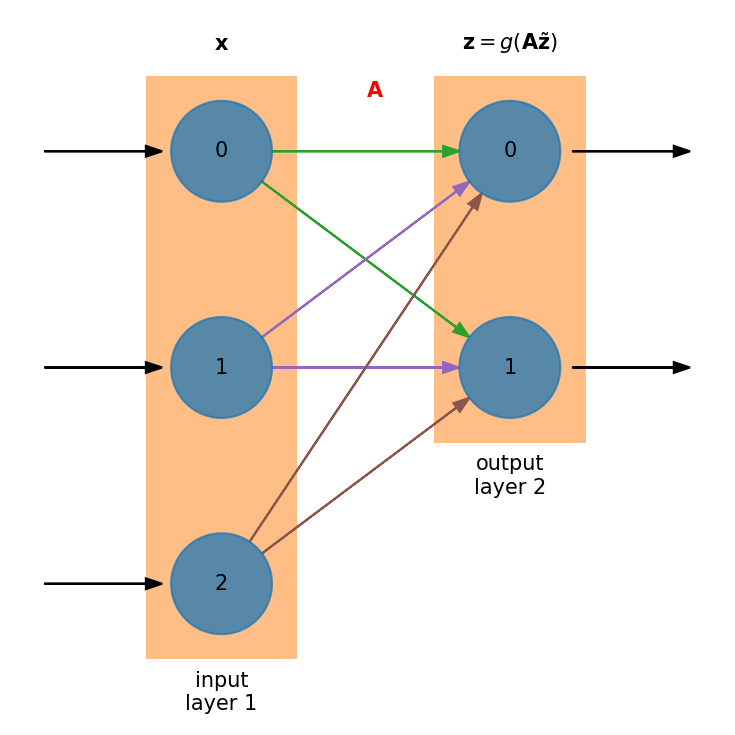
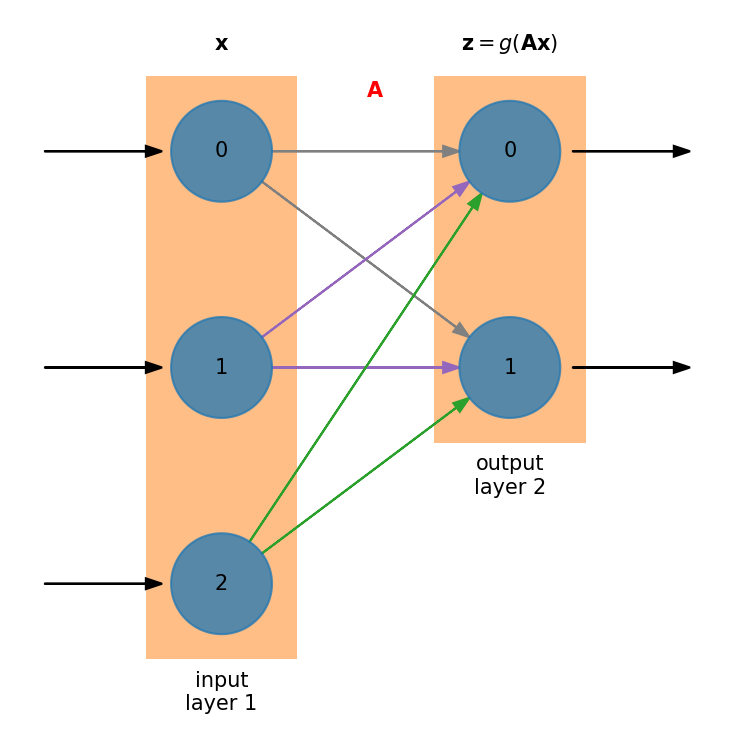
fix fig

diff --git a/content/machine-learning/nn_fig.py b/content/machine-learning/nn_fig.py
@@ -87,7 +87,10 @@ class NeuralNet(object):
                 top_label = r"${\bf x}$"
             elif i == len(self.layers)-1:
                 label = "output\nlayer {}".format(i+1)
-                top_label = r"${\bf z} = g({\bf A}\tilde{\bf z})$"
+                if len(self.layers) == 3:
+                    top_label = r"${\bf z} = g({\bf A}\tilde{\bf z})$"
+                else:
+                    top_label = r"${\bf z} = g({\bf A}{\bf x})$"
             else:
                 label = "hidden\nlayer {}".format(i+1)
                 top_label = r"$\tilde{\bf z} = g({\bf B x})$"

diff --git a/content/machine-learning/machine-learning-basics.md b/content/machine-learning/machine-learning-basics.md
@@ -11,11 +11,19 @@ Basic idea:
 * Train the network on data with known inputs and outputs to set the parameters
 * Use the trained network on new data to predict the outcome
 
-We can think of a neural network as a map that takes a set of n parameters and returns a set of m parameters, $\mathbb{R}^n \rightarrow \mathbb{R}^m$ and we can express this as:
+We can think of a neural network as a map that takes a set of $N$ parameters and returns a set of $M$ parameters,
+which we can express this as:
 
 $${\bf z} = {\bf A} {\bf x}$$
 
-where ${\bf x} \in \mathbb{R}^n$ are the inputs, ${\bf z} \in \mathbb{R}^m$ are the outputs, and ${\bf A}$ is an $m \times n$ matrix.
+where 
+
+$${\bf x} = (x_0, x_1, \ldots, x_{N-1})$$
+
+are the inputs,
+
+$${\bf z} = (z_0, z_1, \ldots, z_{M-1})$$ are the outputs, and
+${\bf A}$ is an $M \times N$ matrix.
 
 Our goal is to determine the matrix elements of ${\bf A}$.
 

diff --git a/content/diffusion/diffusion-going-further.md b/content/diffusion/diffusion-going-further.md
@@ -12,7 +12,7 @@ $$\frac{\phi_i^{n+1} - \phi_i^n}{\Delta x} = \frac{k}{2}
 This is still an implicit update, but the coefficients and righthand side
 in the linear system will be different
 
-## State-dependent transfer coefficients
+## State-dependent transport coefficients
 
 If we have a non-constant conductivity that depends on $\phi$ itself,
 then our discretization is more complicated:
@@ -24,7 +24,7 @@ $$\frac{\phi_i^{n+1} - \phi_i^n}{\Delta t} =
 Now we need $k$ at the interfaces.  There are several ways to do this, which
 should be motivated by the physics of what the coefficient $k$ represents:
 
-$$k_{i+1/2} = \frac{1}{2} (k_i + k_{i+1}$$
+$$k_{i+1/2} = \frac{1}{2} (k_i + k_{i+1})$$
 
 or
 
